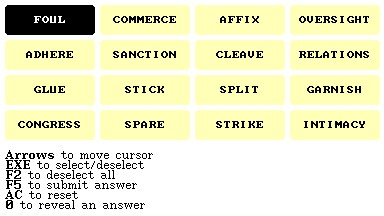
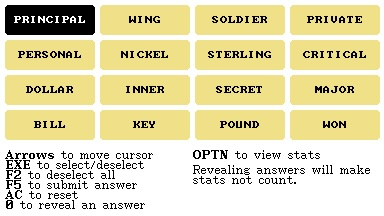
Updated README.md

diff --git a/README.md b/README.md
@@ -4,9 +4,10 @@ This is a port of [New York Times connections](https://www.nytimes.com/games/con
 All the games were gotten from [NYT-Connections-Answers](https://github.com/Eyefyre/NYT-Connections-Answers/tree/main) by Eyefyre.
 
 ## Screenshots
-![Menu Icon](/Screenshots/Icon.jpg)
+![Game](/Screenshots/Game.jpg)
 ![Controls in game](/Screenshots/Controls.jpg)
-![Half Completed game](/Screenshots/Half%20Completed.jpg)
+![Stats in game](/Screenshots/Stats.jpg)
+![Menu Icon](/Screenshots/Icon.jpg)
 
 ## Features
 - Play connections on a Casio Prizm calculator
@@ -23,6 +24,7 @@ All the games were gotten from [NYT-Connections-Answers](https://github.com/Eyef
 | F5 | Submit answer |
 | AC | Reset puzzle |
 | 0 | Reveal answer |
+| OPTN | View Stats |
 
 ## Installation
 - Download Connections.g3a (No need to download the whole project)
